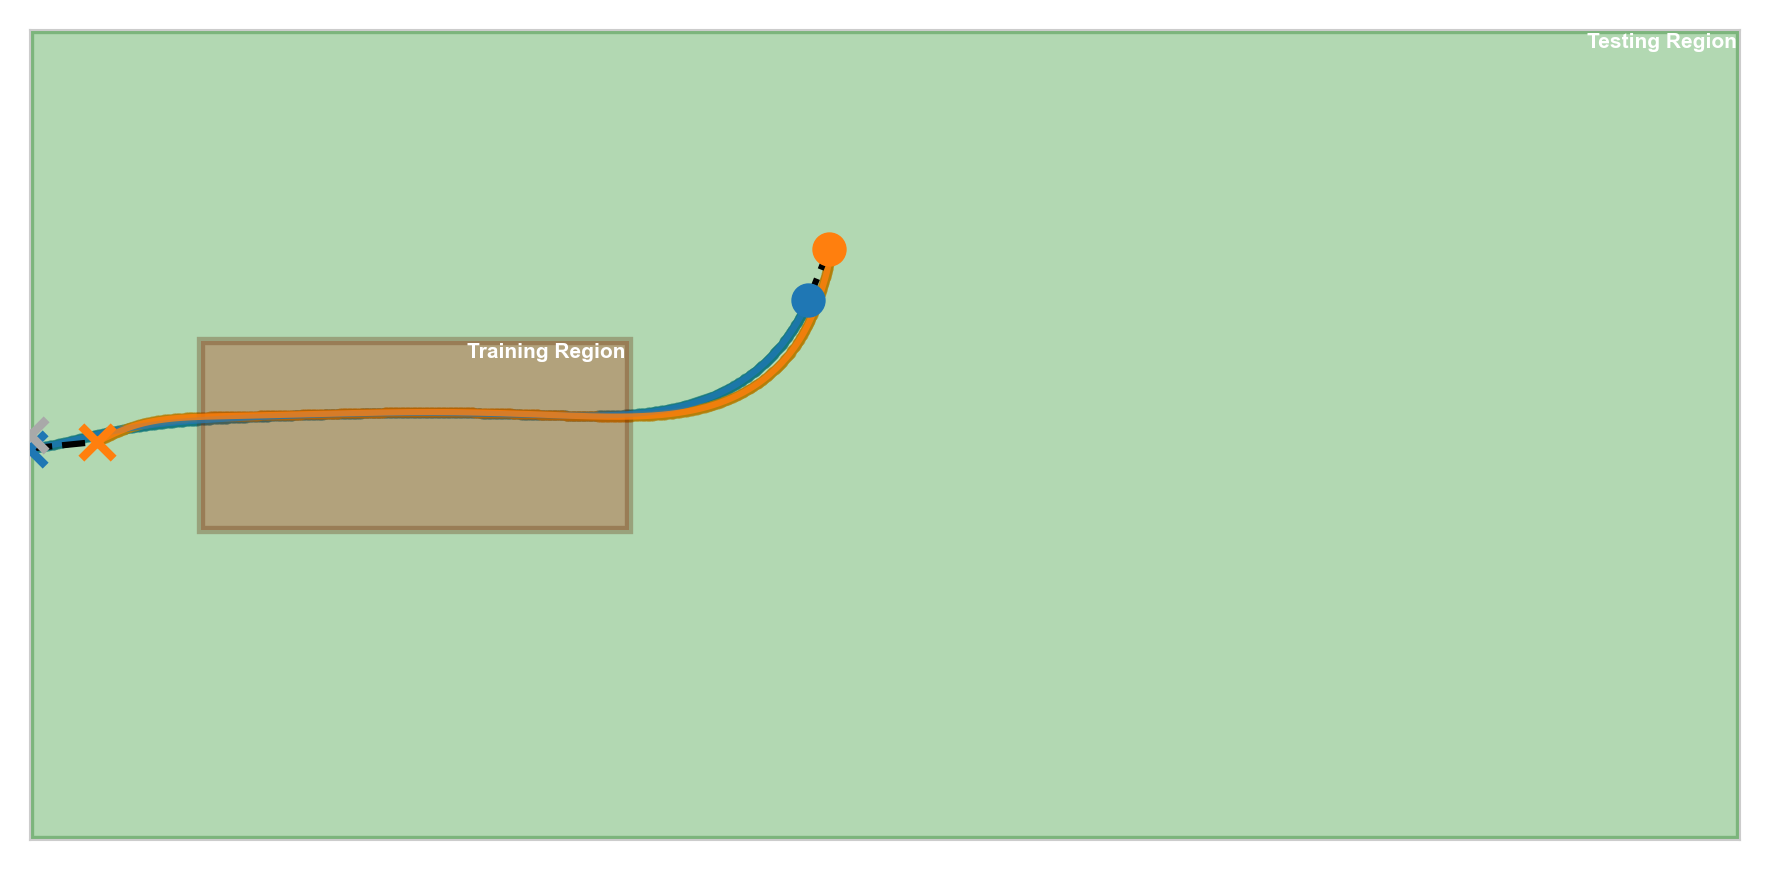
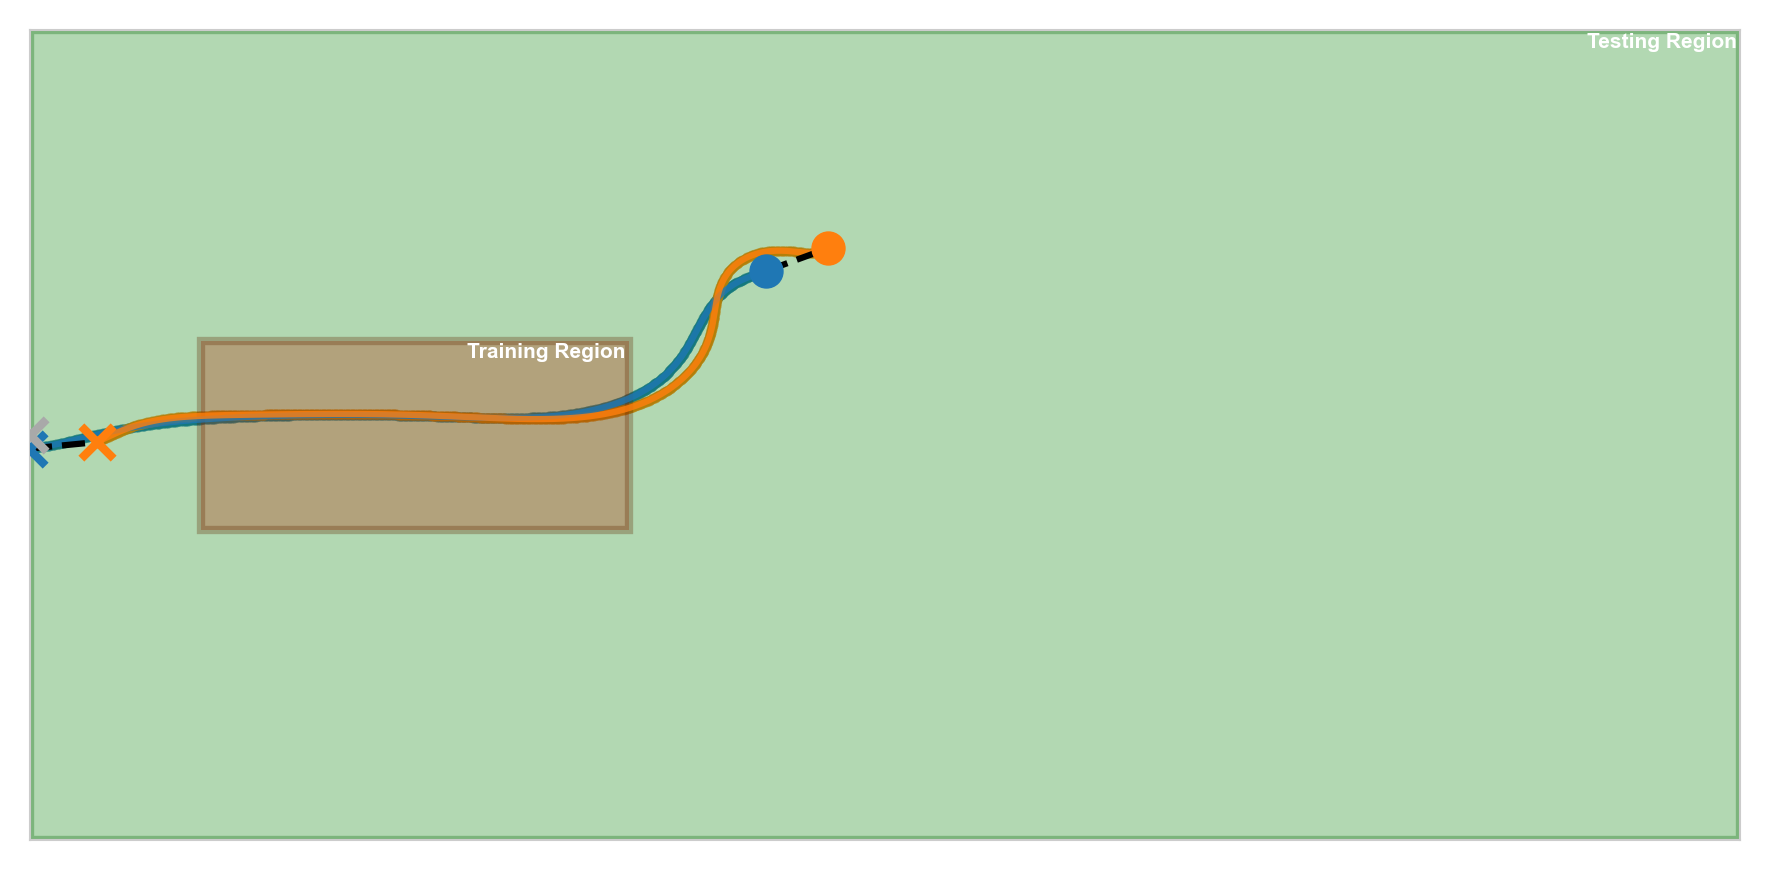
README is updated

Changed region(s): [[0.0932, 0.2793, 0.4661, 0.4966]]

diff --git a/README.md b/README.md
@@ -68,7 +68,8 @@ python truck-backer-upper.py\
     --env_x_range 0 100\
     --env_y_range -30 30\
     --test_x_cab_range 40 90\
-    --test_y_cab_range -20 20  
+    --test_y_cab_range -20 20\
+    --test_cab_angle_range -90 90  
 ```
 
 To train both emulator and controller models, run:
